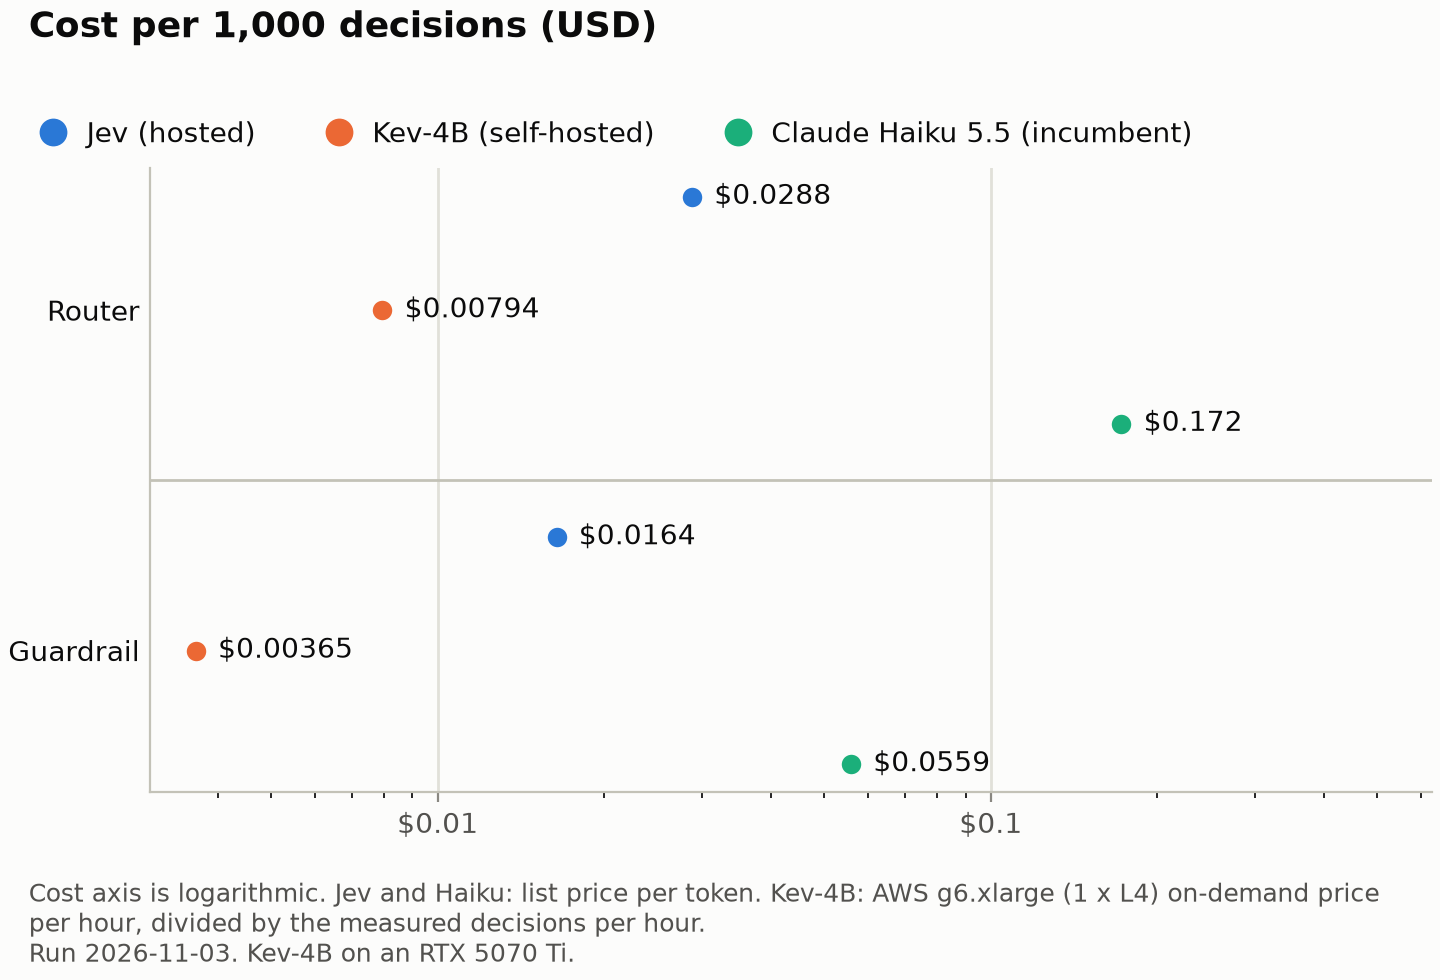
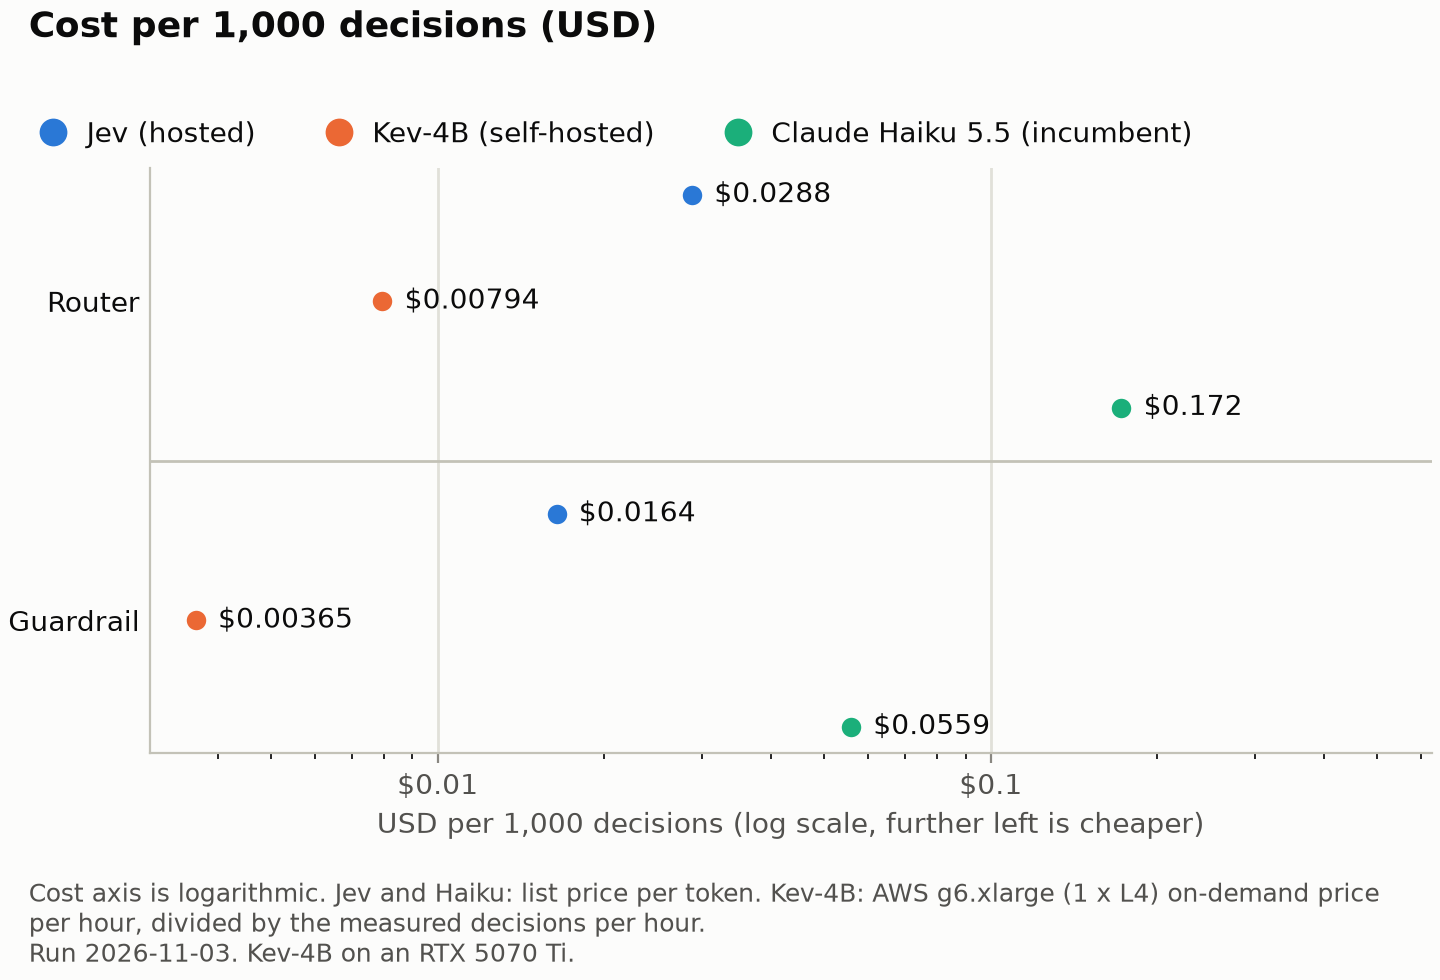
feat: label the chart axes and space the panels

diff --git a/src/bench/chart.py b/src/bench/chart.py
@@ -8,7 +8,7 @@ from typing import NamedTuple
 from matplotlib.axes import Axes
 from matplotlib.figure import Figure
 from matplotlib.lines import Line2D
-from matplotlib.ticker import FuncFormatter, LogLocator, NullFormatter
+from matplotlib.ticker import FormatStrFormatter, FuncFormatter, LogLocator, MultipleLocator, NullFormatter
 
 from bench.nodes import NODES
 
@@ -47,14 +47,18 @@ HEADER_INCHES = 0.8
 # Latency axis ticks: 50 ms, 100 ms, 200 ms, 500 ms, 1 s and so on.
 LATENCY_TICKS = (1.0, 2.0, 5.0)
 # The quality axis ends a little above 1, so that a dot at 1 is not cut.
-QUALITY_TOP = 1.02
+QUALITY_TOP = 1.03
+# The step between the marks on the quality axis.
+QUALITY_TICK = 0.05
 QUALITY_MARGIN = 0.05
 FIGURE_WIDTH = 7.2
 # The height of one node panel, and of one row of the cost chart.
-PANEL_HEIGHT = 2.6
+PANEL_HEIGHT = 3.2
 COST_ROW_HEIGHT = 0.45
+# The space between two node panels, as a share of the figure height.
+PANEL_GAP = 0.08
 # The height of the title, legend and footer around the plots.
-LATENCY_EXTRA_HEIGHT = 1.2
+LATENCY_EXTRA_HEIGHT = 1.8
 COST_EXTRA_HEIGHT = 2.2
 # Text offsets from a dot, in points: the value above a latency dot, and to the right of a cost dot.
 ABOVE_DOT = (0, 9)
@@ -196,12 +200,22 @@ def _quality_latency(points: list[Point], note: str) -> Figure:
     # One quality scale for all panels, so that a gap of 0.05 looks the same in every panel.
     lowest = min((p.quality for p in points if p.quality is not None), default=0.0)
     panels = figure.subplots(len(nodes), 1, sharex=True, sharey=True, squeeze=False)[:, 0]
+    figure.get_layout_engine().set(hspace=PANEL_GAP)  # pyright: ignore[reportOptionalMemberAccess, reportCallIssue]
+    quality_name = "Quality" if "coin_sector" in nodes else "Accuracy"
     for axes, node in zip(panels, nodes, strict=True):
         _style(axes)
         axes.set_xscale("log")
         axes.xaxis.set_major_locator(LogLocator(subs=LATENCY_TICKS))
         axes.xaxis.set_major_formatter(FuncFormatter(_milliseconds))
         axes.xaxis.set_minor_formatter(NullFormatter())
+        # A shared axis shows its marks only on the lowest panel. Each panel shows them here.
+        axes.tick_params(labelbottom=True)
+        axes.set_xlabel(
+            "End-to-end latency per decision (log scale, further left is faster)",
+            color=TEXT_SECONDARY,
+            fontsize=FONT_SIZE,
+        )
+        axes.set_ylabel(f"{quality_name} (higher is better)", color=TEXT_SECONDARY, fontsize=FONT_SIZE)
         axes.set_title(_node_title(node), loc="left", fontsize=FONT_SIZE + 1, color=TEXT_PRIMARY)
         for p in (p for p in points if p.node == node):
             if p.quality is None or p.e2e_p50 is None:
@@ -210,9 +224,8 @@ def _quality_latency(points: list[Point], note: str) -> Figure:
                 axes.plot([p.e2e_p50, p.e2e_p95], [p.quality, p.quality], color=ARMS[p.arm].color, linewidth=LINE_WIDTH)
             _dot(axes, p.e2e_p50, p.quality, p.arm, f"{p.quality:.2f}", ABOVE_DOT, ha="center", va="bottom")
     panels[0].set_ylim(max(0.0, lowest - QUALITY_MARGIN), QUALITY_TOP)
-    # No tick above 1: no quality is above 1.
-    panels[0].set_yticks([t for t in panels[0].get_yticks() if lowest - QUALITY_MARGIN <= t <= 1])
-    panels[-1].set_xlabel("End-to-end latency per decision", color=TEXT_SECONDARY, fontsize=FONT_SIZE)
+    panels[0].yaxis.set_major_locator(MultipleLocator(QUALITY_TICK))
+    panels[0].yaxis.set_major_formatter(FormatStrFormatter("%.2f"))
     return figure
 
 
@@ -252,6 +265,9 @@ def _cost(points: list[Point], note: str) -> Figure:
     axes.invert_yaxis()
     low, high = axes.get_xlim()
     axes.set_xlim(low, high * COST_RIGHT_ROOM)
+    axes.set_xlabel(
+        "USD per 1,000 decisions (log scale, further left is cheaper)", color=TEXT_SECONDARY, fontsize=FONT_SIZE
+    )
     return figure
 
 
